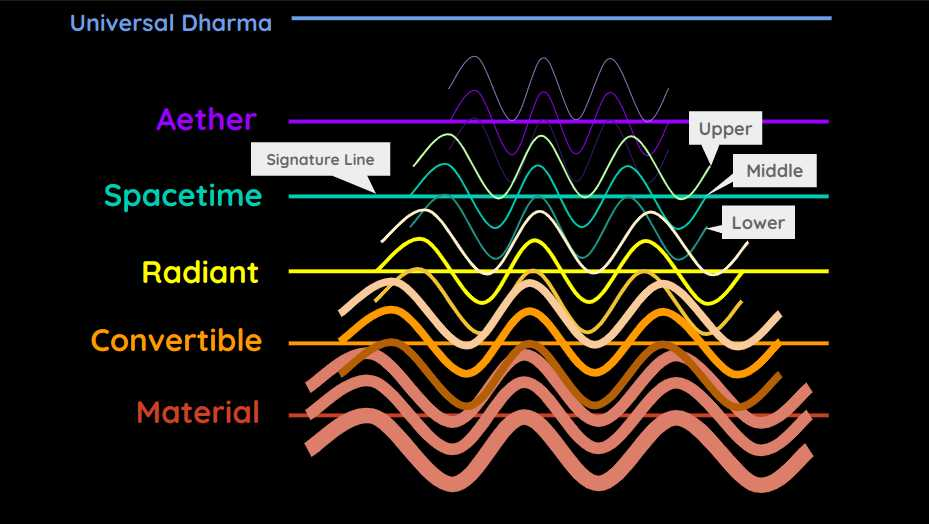
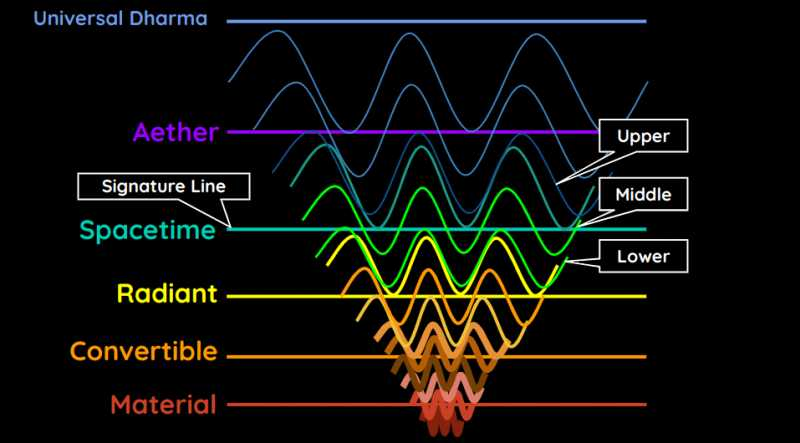
update

diff --git a/content/en/research/sarkar/idea/chapter-03b.md b/content/en/research/sarkar/idea/chapter-03b.md
@@ -13,23 +13,36 @@ icon: "/icons/sarkar.png"
 
 ## Waves
 
-Brahma Cakra is the Cosmic Circle. It is a Cosmic dance in which every created object, under the magic spell of the Cosmos, is moving in proper harmony and rhythm. 
+Brahma Cakra is the Cosmic Circle. 
+- It is a Cosmic dance in which every created object, under the magic spell of the Cosmos, is moving in proper harmony and rhythm. 
 
-An object or objectivity is nothing but a wave motion within the body of the Cosmos. <!-- The philosophy of Ananda Marga thus --> We thus establish the wave theory of modern science through an independent logical outlook. 
+An object or objectivity is nothing but a wave motion within the body of the Cosmos. <!-- The philosophy of Ananda Marga thus --> We thus establish the wave theory* of modern science through an independent logical outlook. 
+
+{{< n n="This is why Superphysics is based on waves" >}}
+
 
 **Life consists only of an ocean of waves.**
 
 Every layer (bhúta) from the aethereal to the solid is in an eternal flow.
 - The very existence of the created layers <!-- bhútatattva --> is just a pattern of waves. 
 
-Quantum-percpetions (Tanmátras) are a microscopic fraction of the waves, taken in a collective form by the mindstuff via the sensory organs<!-- -cum-citta -->. 
+**Quantum-perceptions (Tanmátras) are a microscopic fraction of the waves, taken in a collective form by the mindstuff via the sensory organs**.*
+
+{{< n n="In Superphysics, these fractions are spacetime slices" >}}
+
+Hence, quantum-perceptions <!-- tanmátras --> <!-- are nothing but --> are the waves produced by the objects as a result of **reflection** of the subtler layer* <!-- bhúta --> on the cruder ones.
+
+{{< n n="In Superphysics, this is the timespace particle being reflected back by matter in each spacetime slice" >}}
+
+<!-- -cum-citta -->. 
 <!-- These microscopic fractions carried through waves are called . --> 
-- Hence, quantum-perceptions <!-- tanmátras --> <!-- are nothing but --> are the waves produced by the objects as a result of reflection of the subtler layer <!-- bhúta --> on the cruder ones.
 
 <!-- Tanmátras --> 
-Quantum-perceptions in the mathematical sense are heterogeneous, not homogeneous.
+Quantum-perceptions in the mathematical sense are heterogeneous, not homogeneous.*
 - This leads to the varieties in the perceptible external world. 
 - This heterogeneity is specialized by the difference in wavelengths amongst different quantum-perceptions <!-- tanmátras --> internally or externally of the scope of any particular layer <!-- bhúta -->.
+
+{{< n n="This is why we use Quali-math which has different qualities, instead of math which only as 1 quality as the same number" >}}
 
 
 Ákásha or the aether is theoretical.
@@ -41,9 +54,10 @@ A wave can:
 - **pass through an object where there is no physical obstruction or hindrance from a subtler wave, that is, subtler waves can pass through cruder waves.** 
 
 Under such circumstances, there is always an adjustment of wavelengths. 
-- This results in the creation of physical diversities.
+- **This results in the creation of physical diversities**.
 
-A proper adjustment of wavelength means adjustment at the 2 pauses of the waves:
+
+A proper adjustment of wavelength means adjustment at the **2 pauses** of the waves:
 - the sentient pause and
 - the static pause
 
@@ -56,11 +70,13 @@ The static pause is where:
 - upward motion is just about to start.
 
 They represent the crest and trough of physical science.
-- **The greater the wavelength of any layer, the higher the chance of the other waves passing through.** <!--  this adjustment of the striking . -->
+- **The greater the wavelength of any layer, the higher the chance of the other waves passing through.** *<!--  this adjustment of the striking . -->
 - When an object lets a wave pass through, then it does not come within the scope of sensory nerves. 
 - **But when the wave is reflected back, then our sensory nerves perceive its existence.**
 <!--  does not get such a passage, that is, it -->
 <!-- Let us examine the process of actual perception and see how it occurs.  -->
+
+{{< n n="This is why increasing the wavelength lets us detect the subtler layers and ignore the lower ones" >}}
 
 <!-- HOW TO REFLECT SUBTLER WAVES??? -->
 
@@ -106,13 +122,14 @@ The motor organs <!-- indriyas --> create quantum-perceptions <!-- tanmátras -
 **Any increase in the number of sense perceptions does not affect the total intensity of perception. It remains constant in a mathematical manner.**
 - If the solid can transmit the 5 fundamental perceptions of sound, touch, form, taste and smell with equal intensity, it does not mean that each and every perception of this solid quantum-perception <!-- tanmátra --> will have the same intensity of sound waves transmitted by the aethereal body.*
 
-{{< n n="This is embodied in our Law of Conservation of Idea" >}}
+{{< n n="This is embodied in our Law of Conservation of Idea. Basically everything has an aethereal version. The physicalized versions of it have less intensity than the original aethereal version. For example, the aether version has intensity 5. Its spatial version is 4. Its radiant tejas version is 3 and so on. Therefore the soul of a baby is 5. As a physical baby, it is 1. As it grows through spacetime from baby to old age is 4 (even across its past and future lives). The 4 has that 1 as physicality or matter. The main confusion is that physical perceptions are the most striking to us, while aethereal perceptions are usually invisible, when from the oversouls's perspective, the opposite is true" >}}
 
 
 The aethereal body has the singular characteristic of transmitting sound waves.
 - These sound waves have the collective intensity of all the 5 quantum-perceptions <!-- tanmátras --> transmitted by the solid body having the multilateral sensory functions.*
 
-{{< n n="This means that an aethereal version of a solid object gives out the perceptions of that object via sound, just as its physical version gives out its perceptions as touch, sight, smell." >}} 
+{{< n n="This means that an aethereal version of a solid object gives out the perceptions of that object as aethereal sound, just as its physical version gives out its perceptions as touch, sight, smell. It folows that physical sound is the physical version of aethereal sound or vibration" >}} 
+
 
 <!-- idea-object gives out the perceptions via sound just as its physical object gives out its perceptions as touch, sight,   -->
 

diff --git a/content/en/research/descartes/man/article-31c.md b/content/en/research/descartes/man/article-31c.md
@@ -19,22 +19,25 @@ those same points refer to places so much more distant from the center of the br
 
 <!-- To understand how the idea of an object’s distance is formed, one must consider how  -->
 
-Distance perception is determined by the position of the points on the pineal gland relative to the center of the brain.
-- 
-changes position, with the same points on its surface correspond to distant locations from the brain’s center (O) as they approach the center and increasingly closer locations as they move further away. 
+Distance perception is determined by the position of the points on the pineal gland relative to the center of the brain. They refer to:
+- closer locations as they move further away from the center of the brain `O` [and go with the original position of the pineal gland]
+- farther locations as they move closer to that center [and farther from the original position of the pineal gland]
 
+<!-- changes position, with the same points on its surface correspond to distant locations from the brain’s center (O) as they approach  and -->
 
 For instance, if point `B` moves backward, it would correspond to a more distant location than `B`. 
 
 Conversely, if it tilted slightly forward, it would correspond to a closer location.
 
-This means that the machine’s soul could sometimes perceive different objects using the same organs arranged in the same way, provided nothing changes except the position of gland H. 
+{{< i s="/graphics/bio/arm.jpg" a="Arm" >}}
 
-In conclusion, memory operates through the impressions left in the brain by prior experiences, enabling past events to resurface in thought purely by chance, even when no external stimuli directly provoke recall. This mechanism also explains how new combinations of ideas, such as chimeras and fantastical creatures, are formed in the imagination of those who, while awake, indulge in unrestrained flights of fancy without external distractions.
+This means that the soul could sometimes perceive different objects using the same organs arranged in the same way if the position of the pineal gland changes. 
 
+In conclusion, memory operates through the impressions left in the brain by prior experiences.
 
+This enables past events to resurface in thought purely by chance, even when no external stimuli directly provokes recall. 
 
-
+This mechanism also explains how new combinations of ideas, such as chimeras and fantastical creatures, are formed in the imagination of those who, while awake, indulge in unrestrained flights of fancy without external distractions.
 
 
 

diff --git a/content/en/news/24-12-16.md b/content/en/news/24-12-16.md
@@ -1,0 +1,26 @@
+---
+title: "Breaking Change: Supermath and Qualimath"
+date: 2024-12-16
+description: "We will be putting Qualimath under Supermath"
+image: "/graphics/physics/math.jpg"
+---
+
+When we created Qualimath in December 2020 during the pandemic, we only had Kepler and Pythagoras as basis. 
+
+We got into the works of Descartes around 2022 and were able to extract Cartesian Relationality by 2024 as a complete replacement for Einstein's Relativity and more practically for relativistic of relational pricing from our moneyless system.*
+
+{{< f f="We don't have the expernsive equipment to test Cartesian Relationality to produce sustained anti-gravity (as movement without electromagnetic energy) and so we just use it for economic 'anti-gravity' (as gaining resources without money)" >}}
+
+You could say that Supermath is the base. This can be used within a planet or star system where the physical constants are constant. 
+
+Qualimath is a subset of Supermath and is for operations in other star systems, galaxies, or universes. This is where the physical constants change and so the origin star system is the relational source of truth.*
+
+{{< f f="As app developers, this is a common problem we face pulling data from various sources, causing a mismatch" >}}
+
+Supermath is mainly for homogenous waves and relations. 
+
+Qualimath is for heterogenous waves. 
+
+{{< q a="Sarkar" c="Idea and Ideology, Chapter 3" >}}
+Hence, tanmátras [quantum-perceptions] are the waves produced by the objects as a result of reflection of the subtler bhúta [element or factor] on the cruder ones. Quantum-perceptions in the mathematical sense are **heterogeneous**, not homogeneous
+{{< /q >}}

diff --git a/content/en/superphysics/principles/chapter-07b.md b/content/en/superphysics/principles/chapter-07b.md
@@ -1,6 +1,6 @@
 ---
 heading: "Chapter 7b"
-title: "Decon Notation: Solving the Measurement Problem"
+title: "Qualimath Decon Notation: Solving the Measurement Problem"
 # Math for Qualities and Ratios" more than Quantities and Equalities"
 date: 2020-12-27
 weight: 36
@@ -25,7 +25,14 @@ Beyond the Radiant Layer are the Spacetime and Aether layers where the measureme
 - The distance from House A to House B can be denoted in meters, yards, feet, etc.
 - An idea can be important to some, but not important to others.  
 
-We say that such measurements are subjective and are more qualitative instead of quantitative. We can say that: 
+We say that such measurements are subjective and heterogenous and thus are more qualitative instead of quantitative or homogenous. 
+
+{{< q a="Sarkar" c="Idea and Ideology, Chapter 3" >}}
+Hence, tanmátras [quantum-perceptions] are the waves produced by the objects as a result of reflection of the subtler bhúta [element or factor] on the cruder ones. Quantum-perceptions in the mathematical sense are **heterogeneous**, not homogeneous
+{{< /q >}}
+
+
+We can say that: 
 - Materiality and Electromagnetism focus on quantitative particles
 - Space, time, and feelings focus on qualitative waves
 

diff --git a/content/en/superphysics/principles/chapter-07.md b/content/en/superphysics/principles/chapter-07.md
@@ -1,10 +1,10 @@
 ---
 heading: "Chapter 7"
-title: "Qualimath: The Math for Superphysics"
+title: "Supermath and Qualimath: The Maths for Superphysics"
 # Math for Qualities and Ratios" more than Quantities and Equalities"
 date: 2020-12-27
 weight: 34
-image: "/graphics/physics/math.jpg"
+image: "/graphics/physics/math.jpg" 
 description: "Qualimath is Math for operating on Qualities instead of Quantities"
 icon: /icons/sp.png
 math: true
@@ -33,7 +33,7 @@ A long series of chains gains the dynamics of a wave. This wave we can split int
 
 We can extend this wave to have more states.
 
-{{< img src="/graphics/physics/waves.jpg" alt="Wave" cap="A wave is made up of many different states which reveal a hidden focus or dharma which we call a 'gravitational signature' to make it sound scientific" >}}
+{{< img src="/graphics/super/wave.jpg" alt="Wave" cap="A wave is made up of many different states which reveal a hidden focus or dharma which we call a 'gravitational signature' to make it sound scientific" >}}
 
 We can know why State 4 is the way it is if we look at all its states from 1 to 4. We can then use this knowledge to predict its future states. We can write this as:
 

diff --git a/content/en/superphysics/principles/chapter-06b.md b/content/en/superphysics/principles/chapter-06b.md
@@ -3,7 +3,7 @@ heading: "Chapter 6b"
 title: "The 3 Influences or Gunas"
 date: 2023-12-27
 weight: 30
-image: "/graphics/physics/wave.jpg"
+image: "/graphics/super/wave.jpg"
 description: "The Theory of Elastic Gravitational Bands is part of the details of the Theory Dynamism"
 icon: /icons/sp.png
 writer:
@@ -19,7 +19,7 @@ The 2 Forces interact with each other creating waves with 3 parts:
 2. Origin, Rest, or Pause
 3. Trough
 
-{{< img src="/graphics/physics/wave.jpg" alt="Wave" cap="A wave has crests and troughs" >}}
+{{< img src="/graphics/super/wave.jpg" alt="Wave" cap="A wave has crests and troughs" >}}
 
 
 When applied on the circular journey from pre-existence to existence and back to pre-existence, the 3 parts created by the 2 Forces manifest as 3 Influences:

diff --git a/content/en/superphysics/principles/chapter-04b.md b/content/en/superphysics/principles/chapter-04b.md
@@ -104,6 +104,14 @@ The Hindus call this Virtual Reality or Existence as **Brahma** and the Taoists 
 - The ‘off’ or 'draft' state is called **Nirguna Brahma**
 
 
+
+{{< q a="Sarkar" c="Idea and Ideology, Chapter 3" >}}
+A wave can move freely only when it is in harmony with previous waves and their curvatures.
+It can pass through an object where there is no physical obstruction from a subtler wave, that is, subtler waves can pass through cruder waves. Under such circumstances, there is always an adjustment of wavelengths. This results in the creation of physical diversities
+{{< /q >}}
+
+
+
 ## Do You Have a Problem? The Solution Already Exists!
 
 All the data served by the internet pre-exists. This means that all possibilities already pre-exist. 

diff --git a/content/en/superphysics/wave.md b/content/en/superphysics/wave.md
@@ -1,7 +1,7 @@
 ---
 title: "Superphysics and Waves"
 date: 2020-08-31
-image: "/graphics/physics/wave.jpg"
+image: "/graphics/super/wave.jpg"
 description: "Superphysics is the paradigm that sees the universe as being made up of waves. This is derived from David Hume"
 icon: /icons/sp.png
 writer:
